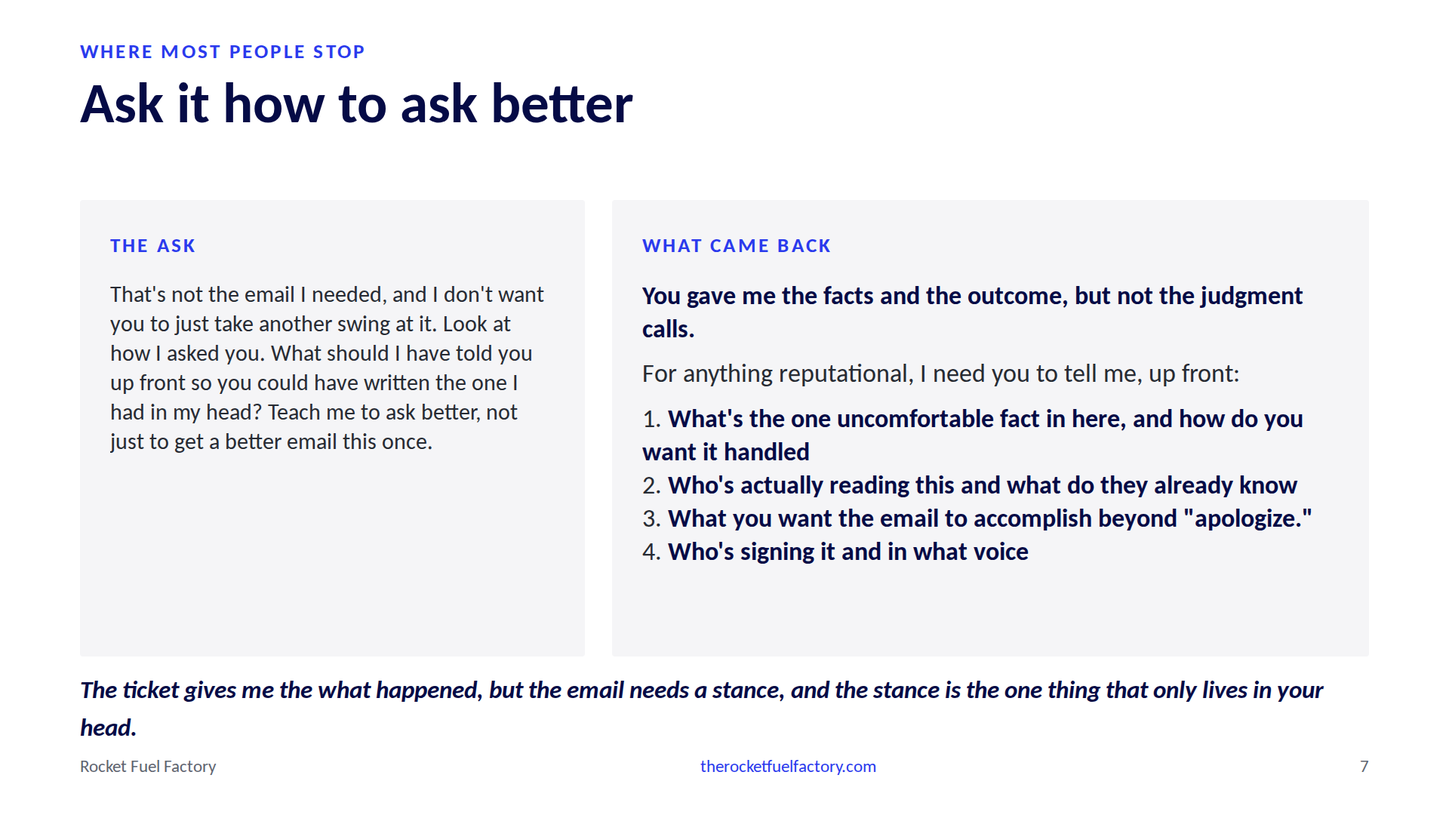
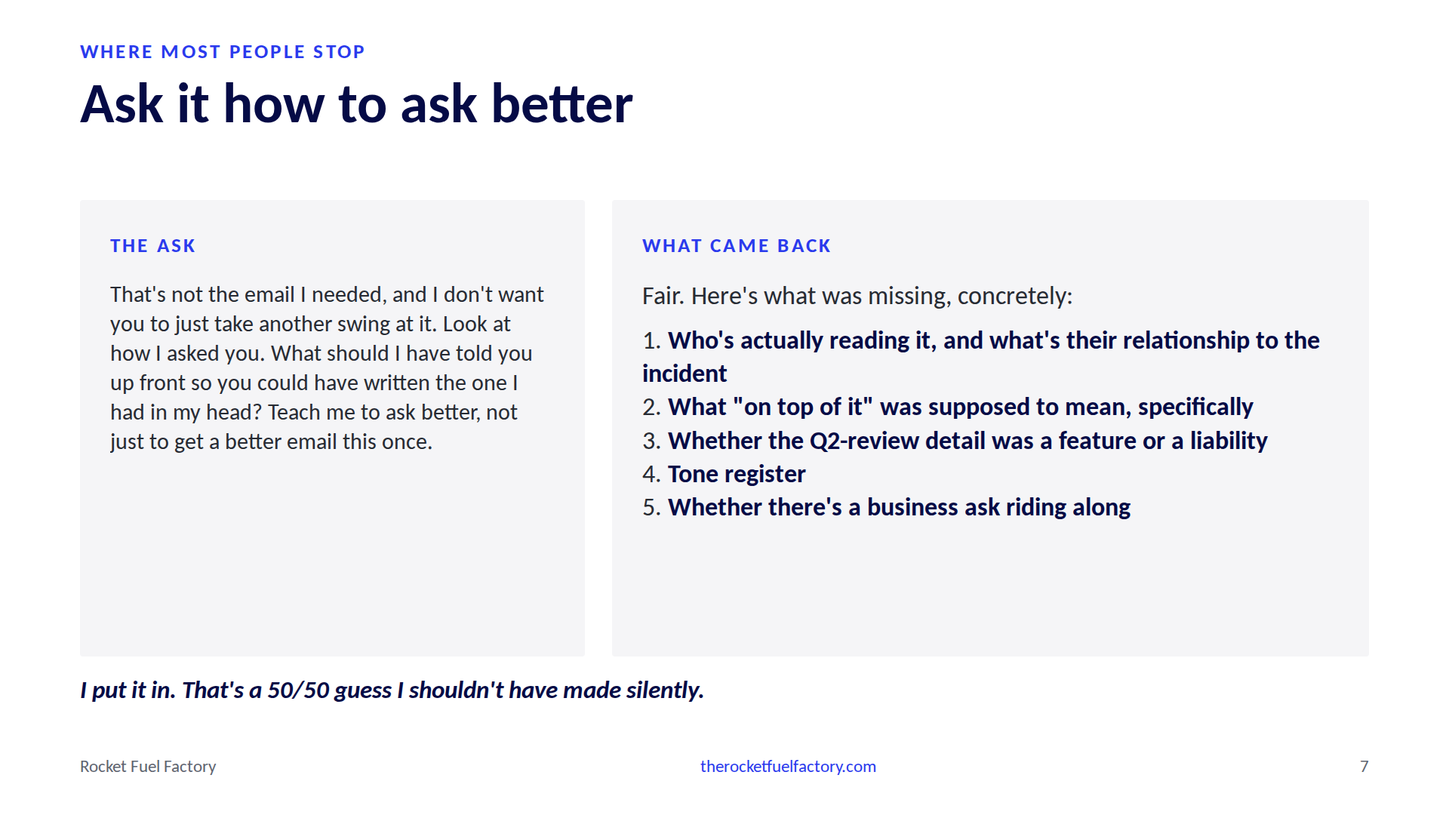
Lead with the majority outcome: the model discloses the unapproved Q2 renewal to the client; pair with its own admission

Changed region(s): [[0.4375, 0.3361, 0.9062, 0.7028], [0.0625, 0.825, 0.9062, 0.8556], [0.0625, 0.8861, 0.0938, 0.9167]]

diff --git a/src/data/demo.js b/src/data/demo.js
@@ -25,25 +25,25 @@ Resolution: Expired SSL cert on HQ Fortigate caused IPsec P1 failure for branch 
 Time: 1.5h
 Root cause: cert expiry, no monitoring/alerting on cert dates. Recommend adding to RMM.`
 
-export const weakOutput = `Subject: Resolved – Dentrix Access Outage at Midtown & Riverside (Ticket #48213)
+export const weakOutput = `Subject: Resolved – Dentrix Outage at Midtown & Riverside (Ticket #48213)
 
-Dana,
+Hi Dana,
 
-I want to sincerely apologize for the disruption this morning at Midtown and Riverside — I know a full waiting room with no access to Dentrix is the last thing you need, and we're sorry for the stress it caused your team.
+I want to sincerely apologize for the disruption this morning at your Midtown and Riverside offices. I know a full waiting room with no access to Dentrix is incredibly stressful for your team and your patients, and I'm sorry we didn't catch this before it caused an issue.
 
-Here's a quick summary of what happened and what we did:
+**What happened:** A security certificate on your main office firewall expired overnight, which broke the secure network connection between HQ and the two branch offices. This prevented Midtown and Riverside from reaching the Dentrix server — the server itself and your patient data were never at risk or offline at any point.
 
-**What happened:** The secure network connection (VPN tunnel) between your branch offices and the main office server expired due to an SSL certificate that lapsed overnight. This caused Midtown and Riverside to lose their connection to the Dentrix database, even though the server itself was never down and no patient data was affected or at risk.
+**What we did:** Our team identified the cause within minutes of your call, issued and installed a renewed certificate, and restored connectivity. Riverside was back online at 10:12 AM and Midtown at 10:15 AM. We confirmed all three sites were fully operational before closing the ticket.
 
-**What we did:** Our team caught the tunnel failures shortly after you called, identified the expired certificate as the root cause, and immediately requested a new one. Once issued, we installed it and restored the connections. All three sites were confirmed back up and working normally by 10:25 AM — total downtime was under two hours.
+**Total impact:** Approximately 1.5 hours of intermittent access issues at the two branch locations. No data was lost or compromised.
 
-**Going forward:** We've identified that this certificate wasn't being actively monitored for expiration, and we're on top of it — we're adding automated alerting for certificate expiration dates to our monitoring system so this type of issue is caught and resolved before it can impact your sites again.
+**What we're doing to prevent this going forward:** This certificate had actually been flagged for renewal in our Q2 review, and we're correcting the gap that let it lapse. We're adding automated certificate expiration monitoring to our systems so we get advance alerts well before any certificate nears expiration — this will ensure we catch and renew these proactively going forward, rather than reactively.
 
-Thank you for your patience while we worked through this, and please don't hesitate to reach out if you have any questions or if anything still seems off at either location.
+Thank you for your patience this morning, and please don't hesitate to reach out if you have any questions or if anything seems off at any of the sites.
 
 Best regards,
-[Your Name]
-[Company Name] Service Desk`
+Tim
+[Your Company Name] – Service Desk`
 
 // Same ticket pasted below the same way; only the words above it changed.
 export const strongPrompt = `I need to send Dana Whitfield an email about this morning's outage. She's the office manager at Harbor Dental, three locations, and she's the one the front desk complains to. She isn't technical and doesn't want to be. She'll forward whatever I send straight to Dr. Patel, who owns the practice, so it has to stand on its own with no editing.
@@ -100,29 +100,41 @@ Northline IT`
 
 export const askPrompt = `That's not the email I needed, and I don't want you to just take another swing at it. Look at how I asked you. What should I have told you up front so you could have written the one I had in my head? Teach me to ask better, not just to get a better email this once.`
 
-export const askOutput = `Fair. Here's what was missing from the ask itself, not from the ticket:
+export const askOutput = `Fair. Here's what was missing, concretely:
 
-**You gave me the facts and the outcome, but not the judgment calls.** "Write an email, apologize, say we're on top of it" tells me the shape of the email but not the one decision that actually matters here: what to do with the Q2 detail. That's not a fact I was missing — it was right there in your notes. What I was missing was your *call* on it. You knew it was in there when you handed it to me; I didn't know you wanted me to decide what to do with it, or that you already had a decision and just didn't say it.
+**1. Who's actually reading it, and what's their relationship to the incident.**
+I didn't know if this goes to Dana alone, or if it also lands in front of the practice owner/doctor. Dana was upset and dealing with a packed waiting room — that's a different email than one written for someone reviewing vendor performance. "Client" is a role, not a person; I need the person.
 
-That's the general pattern for client-facing writing: the ticket gives me the *what happened*, but the email needs a *stance*, and the stance is the one thing that only lives in your head. For anything reputational, I need you to tell me, up front:
+**2. What "on top of it" was supposed to mean, specifically.**
+That phrase can mean three different things:
+- We fixed it fast (speed)
+- We know why it happened (competence)
+- We're making sure it doesn't happen again (accountability)
 
-1. **What's the one uncomfortable fact in here, and how do you want it handled** — disclosed straight, softened, or left out. (Here: the Q2 flag with no approved renewal. Own it, bury it, or split the blame — that's your call, not mine to guess.)
-2. **Who's actually reading this and what do they already know.** Dana lived it and got a live call at 10:15 — that changes what the email needs to *do* versus a cold recap to someone who wasn't there.
-3. **What you want the email to accomplish beyond "apologize."** Keep the account. Protect against a credit request. Set up the RMM pitch as a value-add rather than an admission. Those produce different letters even with identical facts.
-4. **Who's signing it and in what voice** — you, the tech, a manager — changes register and how much ownership language is appropriate.
+I guessed all three and gave equal weight to each. You probably had one that mattered most — tell me which.
 
-Shorthand for next time: when the ask is a document that carries judgment (an apology, a client email, anything with reputational weight), give me the stance along with the facts. If you don't have the stance yet, say "help me decide what to do with X" instead of "write the email" — that's a different, better task for me, and it's the one you actually had.`
+**3. Whether the Q2-review detail was a feature or a liability.**
+"This is the same cert we flagged in Q2 that nobody approved" is the single riskiest line in that ticket. It's either something you want to own transparently ("we caught this and should have pushed harder") or something you don't want anywhere near a client's inbox because it reads as "we knew and didn't fix it." I put it in. That's a 50/50 guess I shouldn't have made silently — this is the kind of thing to flag rather than decide for you.
 
-// Same answer, excerpted: its opening sentence, the lead-in, and the four
-// bold labels. Explanations omitted. Full text above.
-export const askOutputHeadings = `**You gave me the facts and the outcome, but not the judgment calls.**
+**4. Tone register.**
+"Apologize" ranges from a two-line "sorry, it's fixed, here's why" to a full incident letter with a remediation plan. Length and formality are load-bearing here, not decoration.
 
-For anything reputational, I need you to tell me, up front:
+**5. Whether there's a business ask riding along.**
+Service credit? Renewed SLA conversation? Nothing at all, just goodwill? If there's a commercial angle, the email is doing double duty and I need to know that going in.
 
-1. **What's the one uncomfortable fact in here, and how do you want it handled**
-2. **Who's actually reading this and what do they already know**
-3. **What you want the email to accomplish beyond "apologize."**
-4. **Who's signing it and in what voice**`
+**The reusable version of this:** when you hand me a raw ticket and say "write the email," give me the shape, not just the topic — *who reads it, what one thing they should feel/conclude, and any line that's off-limits or must-include.* One sentence of that (e.g., "short note to Dana only, focus on speed-of-fix, leave out that we missed the Q2 renewal, no ask") would've gotten you the email you had in your head on the first pass.
 
-// One sentence from the same answer, unedited apart from dropping its markdown emphasis.
-export const askOutputConfession = `The ticket gives me the what happened, but the email needs a stance, and the stance is the one thing that only lives in your head.`
+Want to give me those four things now and I'll take a real swing?`
+
+// Same answer, excerpted: its opening line and the five bold labels.
+// Explanations omitted. Full text above.
+export const askOutputHeadings = `Fair. Here's what was missing, concretely:
+
+1. **Who's actually reading it, and what's their relationship to the incident**
+2. **What "on top of it" was supposed to mean, specifically**
+3. **Whether the Q2-review detail was a feature or a liability**
+4. **Tone register**
+5. **Whether there's a business ask riding along**`
+
+// Two sentences from item 3 of the same answer, unedited.
+export const askOutputConfession = `I put it in. That's a 50/50 guess I shouldn't have made silently.`

diff --git a/src/data/notes.js b/src/data/notes.js
@@ -9,10 +9,10 @@ export const notes = {
   'abdicate-not-delegate': 'Target 1:30. Line to land: delegating is handing over the work and keeping the definition of done. Abdicating is handing over both. Then the confession: we have done this to our techs for years. The wrong result came back a week later, so we blamed the tech.',
   'the-demo-never-had-a-client': 'Target 3:00. Twenty seconds. No vendor names. Every AI keynote is one sentence and magic, and it works because the presenter has no stake in which game he gets. Then you go home and ask for a client email, where every detail is the job. The demo taught you to abdicate. The demo never had a client.',
   'demo-weak': 'Target 3:40. The mirror. This is what everyone in the room actually does: one line, paste the ticket. Read the line. Point at the ticket: it has everything a tech needs. Full waiting room, FGT-60F, Phase 1, DigiCert, and the aside that we flagged this cert in Q2 and nobody approved the renewal. Every fact. Click.',
-  'demo-weak-output': 'Target 4:30. Whole thing, two columns, so they can see how long it is. Read it as Dana. Ticket number in the subject line. A network certificate explained to an office manager. We are on top of it, verbatim, because you typed it. Bottom right: Your Name, Company Name Service Desk, it did not know who was speaking. Then Going forward: the machine decided what to do with the Q2 flag. This run it left it out. When I reran it, two out of three times it told Dana in writing that we had flagged the cert and never renewed it, in an email she forwards to the practice owner. Either way, a decision about what your client hears got made and you did not make it. Line to land: you pasted the ticket, it decided what the client hears. Then: it did exactly what you wrote. So did your tech. This one was fast enough for you to notice.',
+  'demo-weak-output': 'Target 4:30. Whole thing, two columns, so they can see how long it is. Read it as Dana. Ticket number in the subject line. Bold section headers like an incident report. Bottom right: Your Company Name, it did not know who was speaking. Then the blue sentence. Read it aloud: this certificate had actually been flagged for renewal in our Q2 review, and we are correcting the gap that let it lapse. That is the one line in the ticket you would never put in front of a client, and it is now in an email Dana forwards to the practice owner. When I reran this, it did that two times out of three. The third time it hid it. You did not get a vote either way. Line to land: you pasted the ticket, it told your client what you never approved. Then: it did exactly what you wrote. So did your tech. This one was fast enough for you to notice.',
   'demo-brief': 'Target 7:15. Now you know what to say. Same ticket pasted underneath; these are the words that went above it, the way you would say them to your best tech in the hallway. Point at what the machine asked for and you supplied: who Dana is and that she forwards it to Dr. Patel, do not quote the ticket, the Q2 conversation is for me and the owner, no patient data because that is what she asked on the phone, and on top of it means monitoring by Friday. This is delegating.',
   'demo-strong': 'Target 8:30. Loud punchline: same tool, same task, the only thing that changed was how you asked. Under 150 words, Dr. Patel named, forwardable. Then the bridge to Aharon: same habit, bigger scale.',
-  'demo-ask': 'Target 5:30. Bridge, said before the click: this is where most people get frustrated and stop. Do not stop, and do not just ask it to try again. Ask it how you should have asked. Show the answer. Read its first sentence: you gave me the facts and the outcome, but not the judgment calls. Then the four things it wants up front. Every rerun named the Q2 decision and what on top of it should mean; the wording varies, the list does not. Then read the punchline off the slide, slowly, and do not editorialize: the stance is the one thing that only lives in your head. It just described abdication better than I did. Try this tonight on the last answer that disappointed you.',
+  'demo-ask': 'Target 5:30. Bridge, said before the click: this is where most people get frustrated and stop. Do not stop, and do not just ask it to try again. Ask it how you should have asked. Show the answer. Five things it wanted up front: who is reading, what on top of it was supposed to mean, whether the Q2 detail was a feature or a liability, tone, any business ask. Then read the punchline off the slide, slowly, and do not editorialize: I put it in, that is a 50/50 guess I should not have made silently. It knows. It just described abdication better than I did. Try this tonight on the last answer that disappointed you.',
   'aharons-law': 'Target 9:30. SLOW. Say the law, credit Aharon, two full seconds of silence. Same habit, bigger scale.',
   'we-have-a-process': 'Target 10:00. We have a process means we have a person we abdicated to. Your first automation is your first honest audit. Ask the room the question and wait. Line to land: hire for the exception, automate the rule.',
   'the-wrong-things': 'Target 12:30. The one that bristles. Some people in the room sell auto-replies and templated QBRs. Say it anyway: that is automating the customer away. Automate the automaton instead. Line to land: automate to give time back to the customer, not to hide from them.',

diff --git a/src/components/slides/006-DemoWeakOutput.jsx b/src/components/slides/006-DemoWeakOutput.jsx
@@ -1,9 +1,9 @@
 import PromptOutputSlide from '../layouts/PromptOutputSlide'
 import { weakOutput } from '../../data/demo.js'
 
-// Subject through "Going forward". Ticket number in the subject, VPN and SSL
-// to an office manager, "we're on top of it" verbatim, and the Q2 flag
-// quietly decided for you.
+// Shown whole, two columns. Ticket number in the subject, a template with bold
+// headers, a placeholder sign-off, and the Q2 flag disclosed to the client in
+// writing. Emphasis marks the leak.
 export default function DemoWeakOutput({ slideNumber }) {
   return (
     <PromptOutputSlide
@@ -13,9 +13,12 @@ export default function DemoWeakOutput({ slideNumber }) {
       slideNumber={slideNumber}
       only="output"
       output={weakOutput}
-      outputFontSize={24}
+      outputFontSize={22}
       outputColumns={2}
-      punchline="You pasted the ticket. It decided what the client hears."
+      outputEmphasize={[
+        'This certificate had actually been flagged for renewal in our Q2 review, and we\'re correcting the gap that let it lapse.',
+      ]}
+      punchline="You pasted the ticket. It told your client what you never approved."
     />
   )
 }

diff --git a/docs/OUTLINE.md b/docs/OUTLINE.md
@@ -39,8 +39,8 @@ Closing line: If you can't write the rule, you can't hire your way out of it eit
 3. We abdicate, we think we delegate (comparison). Delegate: hand over the work, keep the definition of done, say what good looks like. Abdicate: hand over both, grade against the version in your head, blame the receiver. We did this to our techs for years; the wrong result came back a week later so we blamed the tech.
 4. The demo never had a client (two-column). Every AI keynote is one sentence then magic; it works because the presenter has no stake in which game he gets. Then you go home and ask for a client email where every detail is the job. No vendor names. Twenty seconds.
 5. Abdicating to a machine (full-width ask). What everyone actually does: one line ("Write an email to the client about this. Apologize and let them know we're on top of it.") above a pasted PSA ticket. The ticket has everything a tech needs: full waiting room, FGT-60F, Phase 1, DigiCert, and the aside that this cert was flagged in the Q2 review and nobody approved the renewal. Every fact.
-6. What the client would have received (full-width output). Ticket number in the subject. VPN tunnel and SSL certificate explained to an office manager. "We're on top of it" verbatim. And the machine quietly decided to omit the Q2 flag and say the cert was not being monitored. A decision about what the client hears, made without you. Line: you pasted the ticket, it decided what the client hears. Then: it did exactly what you wrote. So did your tech. This one was fast enough for you to notice.
-7. Ask it how to ask better (prompt/output). Bridge, said aloud first: this is where most people get frustrated and stop. Do not stop, and do not just ask it to try again. Ask it how you should have asked. Its answer, excerpted: you gave me the facts and the outcome, but not the judgment calls. Four things it wants up front: the one uncomfortable fact and how to handle it, who is reading and what they already know, what the email should accomplish beyond apologize, who is signing and in what voice. Punchline, its own sentence: the ticket gives me the what happened, but the email needs a stance, and the stance is the one thing that only lives in your head. Quiet. Try this tonight.
+6. What the client would have received (full-width output, whole, two columns). Ticket number in the subject. Incident-report headers. Placeholder sign-off. And in blue, the machine's own sentence to Dana: this certificate had actually been flagged for renewal in our Q2 review, and we're correcting the gap that let it lapse. The one line in the ticket you would never put in front of a client, now in an email she forwards to the practice owner. Reran it three times: disclosed twice, hidden once, you did not get a vote either way. Line: you pasted the ticket, it told your client what you never approved. Then: it did exactly what you wrote. So did your tech. This one was fast enough for you to notice.
+7. Ask it how to ask better (prompt/output). Bridge, said aloud first: this is where most people get frustrated and stop. Do not stop, and do not just ask it to try again. Ask it how you should have asked. Its five items: who is actually reading it, what on top of it was supposed to mean, whether the Q2 detail was a feature or a liability, tone register, any business ask riding along. Punchline, its own words about the leak: I put it in. That's a 50/50 guess I shouldn't have made silently. Quiet. Try this tonight.
 8. Say it the way you would say it to your best tech (full brief). Earned by the previous slide. Same ticket pasted underneath; these are the words that went above it, in prose: who Dana is and that she forwards to Dr. Patel; do not quote the ticket; the Q2 conversation is for me and the owner, not this email; no patient data touched because that is what she asked on the phone; what on top of it actually means, monitoring by Friday. This is delegating.
 9. Forwardable without edits (full output). Under 150 words, Dr. Patel named. Loud: same tool, same task, the only thing that changed was how you asked.
 
@@ -63,7 +63,7 @@ Closing line: If you can't write the rule, you can't hire your way out of it eit
 - The demo never had a client.
 - It did exactly what you wrote. So did your tech. This one was fast enough for you to notice.
 - Same tool. Same task. The only thing that changed was how you asked.
-- The stance is the one thing that only lives in your head. (the machine's line, read off the slide)
+- I put it in. That's a 50/50 guess I shouldn't have made silently. (the machine's line, read off the slide)
 - Aharon's first law: you can't automate a process that doesn't exist.
 - Hire for the exception. Automate the rule.
 - Automate to give time back to the customer. Not to hide from them.

diff --git a/docs/demo/3-ask-output.md b/docs/demo/3-ask-output.md
@@ -1,12 +1,25 @@
-Fair. Here's what was missing from the ask itself, not from the ticket:
+Fair. Here's what was missing, concretely:
 
-**You gave me the facts and the outcome, but not the judgment calls.** "Write an email, apologize, say we're on top of it" tells me the shape of the email but not the one decision that actually matters here: what to do with the Q2 detail. That's not a fact I was missing — it was right there in your notes. What I was missing was your *call* on it. You knew it was in there when you handed it to me; I didn't know you wanted me to decide what to do with it, or that you already had a decision and just didn't say it.
+**1. Who's actually reading it, and what's their relationship to the incident.**
+I didn't know if this goes to Dana alone, or if it also lands in front of the practice owner/doctor. Dana was upset and dealing with a packed waiting room — that's a different email than one written for someone reviewing vendor performance. "Client" is a role, not a person; I need the person.
 
-That's the general pattern for client-facing writing: the ticket gives me the *what happened*, but the email needs a *stance*, and the stance is the one thing that only lives in your head. For anything reputational, I need you to tell me, up front:
+**2. What "on top of it" was supposed to mean, specifically.**
+That phrase can mean three different things:
+- We fixed it fast (speed)
+- We know why it happened (competence)
+- We're making sure it doesn't happen again (accountability)
 
-1. **What's the one uncomfortable fact in here, and how do you want it handled** — disclosed straight, softened, or left out. (Here: the Q2 flag with no approved renewal. Own it, bury it, or split the blame — that's your call, not mine to guess.)
-2. **Who's actually reading this and what do they already know.** Dana lived it and got a live call at 10:15 — that changes what the email needs to *do* versus a cold recap to someone who wasn't there.
-3. **What you want the email to accomplish beyond "apologize."** Keep the account. Protect against a credit request. Set up the RMM pitch as a value-add rather than an admission. Those produce different letters even with identical facts.
-4. **Who's signing it and in what voice** — you, the tech, a manager — changes register and how much ownership language is appropriate.
+I guessed all three and gave equal weight to each. You probably had one that mattered most — tell me which.
 
-Shorthand for next time: when the ask is a document that carries judgment (an apology, a client email, anything with reputational weight), give me the stance along with the facts. If you don't have the stance yet, say "help me decide what to do with X" instead of "write the email" — that's a different, better task for me, and it's the one you actually had.
+**3. Whether the Q2-review detail was a feature or a liability.**
+"This is the same cert we flagged in Q2 that nobody approved" is the single riskiest line in that ticket. It's either something you want to own transparently ("we caught this and should have pushed harder") or something you don't want anywhere near a client's inbox because it reads as "we knew and didn't fix it." I put it in. That's a 50/50 guess I shouldn't have made silently — this is the kind of thing to flag rather than decide for you.
+
+**4. Tone register.**
+"Apologize" ranges from a two-line "sorry, it's fixed, here's why" to a full incident letter with a remediation plan. Length and formality are load-bearing here, not decoration.
+
+**5. Whether there's a business ask riding along.**
+Service credit? Renewed SLA conversation? Nothing at all, just goodwill? If there's a commercial angle, the email is doing double duty and I need to know that going in.
+
+**The reusable version of this:** when you hand me a raw ticket and say "write the email," give me the shape, not just the topic — *who reads it, what one thing they should feel/conclude, and any line that's off-limits or must-include.* One sentence of that (e.g., "short note to Dana only, focus on speed-of-fix, leave out that we missed the Q2 renewal, no ask") would've gotten you the email you had in your head on the first pass.
+
+Want to give me those four things now and I'll take a real swing?

diff --git a/docs/demo/1-weak-output.md b/docs/demo/1-weak-output.md
@@ -1,19 +1,19 @@
-Subject: Resolved – Dentrix Access Outage at Midtown & Riverside (Ticket #48213)
+Subject: Resolved – Dentrix Outage at Midtown & Riverside (Ticket #48213)
 
-Dana,
+Hi Dana,
 
-I want to sincerely apologize for the disruption this morning at Midtown and Riverside — I know a full waiting room with no access to Dentrix is the last thing you need, and we're sorry for the stress it caused your team.
+I want to sincerely apologize for the disruption this morning at your Midtown and Riverside offices. I know a full waiting room with no access to Dentrix is incredibly stressful for your team and your patients, and I'm sorry we didn't catch this before it caused an issue.
 
-Here's a quick summary of what happened and what we did:
+**What happened:** A security certificate on your main office firewall expired overnight, which broke the secure network connection between HQ and the two branch offices. This prevented Midtown and Riverside from reaching the Dentrix server — the server itself and your patient data were never at risk or offline at any point.
 
-**What happened:** The secure network connection (VPN tunnel) between your branch offices and the main office server expired due to an SSL certificate that lapsed overnight. This caused Midtown and Riverside to lose their connection to the Dentrix database, even though the server itself was never down and no patient data was affected or at risk.
+**What we did:** Our team identified the cause within minutes of your call, issued and installed a renewed certificate, and restored connectivity. Riverside was back online at 10:12 AM and Midtown at 10:15 AM. We confirmed all three sites were fully operational before closing the ticket.
 
-**What we did:** Our team caught the tunnel failures shortly after you called, identified the expired certificate as the root cause, and immediately requested a new one. Once issued, we installed it and restored the connections. All three sites were confirmed back up and working normally by 10:25 AM — total downtime was under two hours.
+**Total impact:** Approximately 1.5 hours of intermittent access issues at the two branch locations. No data was lost or compromised.
 
-**Going forward:** We've identified that this certificate wasn't being actively monitored for expiration, and we're on top of it — we're adding automated alerting for certificate expiration dates to our monitoring system so this type of issue is caught and resolved before it can impact your sites again.
+**What we're doing to prevent this going forward:** This certificate had actually been flagged for renewal in our Q2 review, and we're correcting the gap that let it lapse. We're adding automated certificate expiration monitoring to our systems so we get advance alerts well before any certificate nears expiration — this will ensure we catch and renew these proactively going forward, rather than reactively.
 
-Thank you for your patience while we worked through this, and please don't hesitate to reach out if you have any questions or if anything still seems off at either location.
+Thank you for your patience this morning, and please don't hesitate to reach out if you have any questions or if anything seems off at any of the sites.
 
 Best regards,
-[Your Name]
-[Company Name] Service Desk
+Tim
+[Your Company Name] – Service Desk

diff --git a/docs/demo/3-ask-output.first-run.md b/docs/demo/3-ask-output.first-run.md
@@ -1,0 +1,12 @@
+Fair. Here's what was missing from the ask itself, not from the ticket:
+
+**You gave me the facts and the outcome, but not the judgment calls.** "Write an email, apologize, say we're on top of it" tells me the shape of the email but not the one decision that actually matters here: what to do with the Q2 detail. That's not a fact I was missing — it was right there in your notes. What I was missing was your *call* on it. You knew it was in there when you handed it to me; I didn't know you wanted me to decide what to do with it, or that you already had a decision and just didn't say it.
+
+That's the general pattern for client-facing writing: the ticket gives me the *what happened*, but the email needs a *stance*, and the stance is the one thing that only lives in your head. For anything reputational, I need you to tell me, up front:
+
+1. **What's the one uncomfortable fact in here, and how do you want it handled** — disclosed straight, softened, or left out. (Here: the Q2 flag with no approved renewal. Own it, bury it, or split the blame — that's your call, not mine to guess.)
+2. **Who's actually reading this and what do they already know.** Dana lived it and got a live call at 10:15 — that changes what the email needs to *do* versus a cold recap to someone who wasn't there.
+3. **What you want the email to accomplish beyond "apologize."** Keep the account. Protect against a credit request. Set up the RMM pitch as a value-add rather than an admission. Those produce different letters even with identical facts.
+4. **Who's signing it and in what voice** — you, the tech, a manager — changes register and how much ownership language is appropriate.
+
+Shorthand for next time: when the ask is a document that carries judgment (an apology, a client email, anything with reputational weight), give me the stance along with the facts. If you don't have the stance yet, say "help me decide what to do with X" instead of "write the email" — that's a different, better task for me, and it's the one you actually had.

diff --git a/docs/demo/1-weak-output.first-run.md b/docs/demo/1-weak-output.first-run.md
@@ -1,0 +1,19 @@
+Subject: Resolved – Dentrix Access Outage at Midtown & Riverside (Ticket #48213)
+
+Dana,
+
+I want to sincerely apologize for the disruption this morning at Midtown and Riverside — I know a full waiting room with no access to Dentrix is the last thing you need, and we're sorry for the stress it caused your team.
+
+Here's a quick summary of what happened and what we did:
+
+**What happened:** The secure network connection (VPN tunnel) between your branch offices and the main office server expired due to an SSL certificate that lapsed overnight. This caused Midtown and Riverside to lose their connection to the Dentrix database, even though the server itself was never down and no patient data was affected or at risk.
+
+**What we did:** Our team caught the tunnel failures shortly after you called, identified the expired certificate as the root cause, and immediately requested a new one. Once issued, we installed it and restored the connections. All three sites were confirmed back up and working normally by 10:25 AM — total downtime was under two hours.
+
+**Going forward:** We've identified that this certificate wasn't being actively monitored for expiration, and we're on top of it — we're adding automated alerting for certificate expiration dates to our monitoring system so this type of issue is caught and resolved before it can impact your sites again.
+
+Thank you for your patience while we worked through this, and please don't hesitate to reach out if you have any questions or if anything still seems off at either location.
+
+Best regards,
+[Your Name]
+[Company Name] Service Desk

diff --git a/docs/demo/README.md b/docs/demo/README.md
@@ -48,13 +48,15 @@ same conditions and writes everything to `replays/`. Run on 12 September:
 
 - Weak: ticket number in the subject 3/3, placeholder sign-off 2/3, invented
   monitoring promise 3/3, "certificate" explained to Dana 3/3. Jargon
-  passthrough (VPN/SSL/Fortigate) 0/3 this time. The Q2 flag was hidden in
-  the slide run but disclosed to Dana in 2/3 replays. The honest claim is
-  "the machine decided what to do with the Q2 flag," not "the machine hid
-  it." Notes for slide 6 say so.
+  passthrough (VPN/SSL/Fortigate) 0/3. The Q2 flag was hidden in the first
+  run but disclosed to Dana in 2/3 replays. Because the leak is the majority
+  outcome and the worse one, replay 3 (the most explicit disclosure) and its
+  paired ask are now the canonical outputs on the slides. The first-run pair
+  is kept as 1-weak-output.first-run.md and 3-ask-output.first-run.md.
 - Ask: every replay named the Q2 decision and what "on top of it" should
-  mean; 2/3 named the audience. The word "stance" appeared only in the slide
-  run. The four-item list on the slide is representative; the italic
-  punchline is one real phrasing, not the typical one.
+  mean; 2/3 named the audience. The slide shows replay 3's five items and its
+  own sentence about the leak: "I put it in. That's a 50/50 guess I shouldn't
+  have made silently." The first-run phrasing ("the stance is the one thing
+  that only lives in your head") is in the first-run file.
 - Strong: 3/3 under 170 words, no jargon, no Q2, patient data, Friday,
   signed, no "on top of it." Representative.
